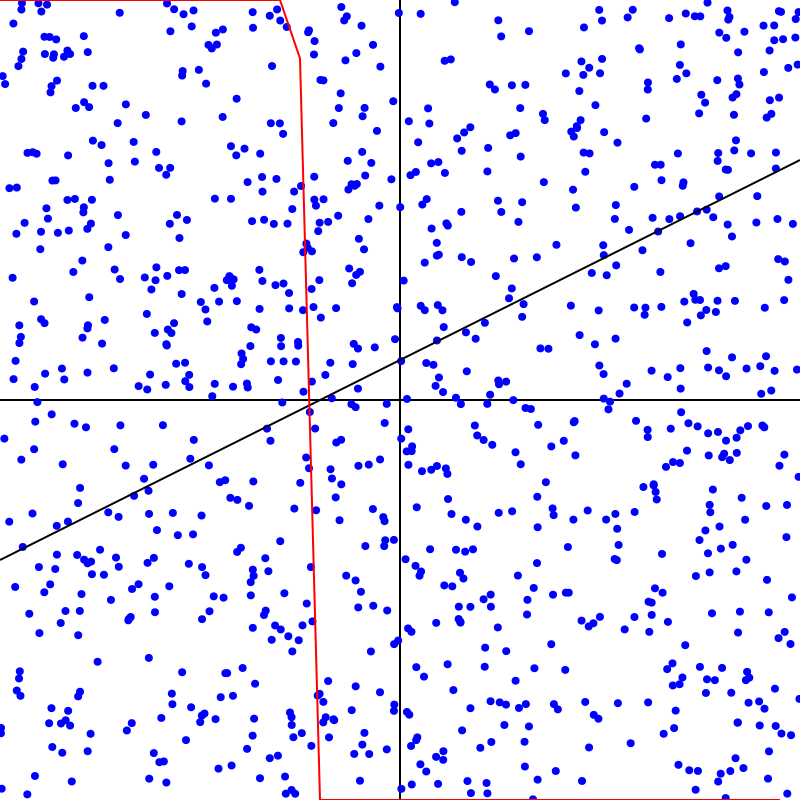
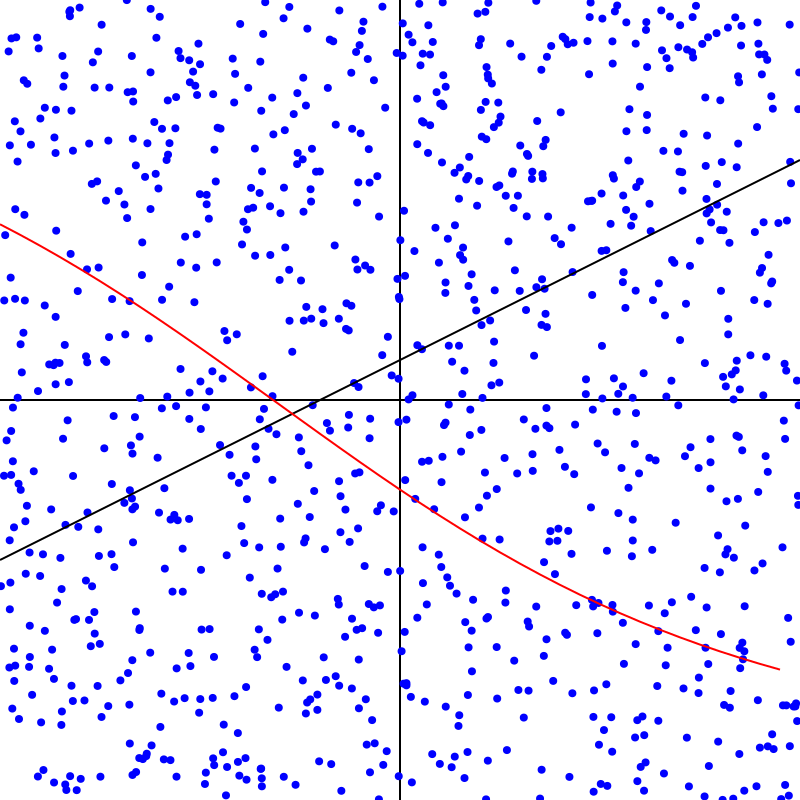
added relu, tanh, regularization

diff --git a/mlp.c b/mlp.c
@@ -3,6 +3,7 @@
 #include <math.h>
 #include <time.h>
 #include <cairo.h>
+#include <string.h>
 
 #define INPUT_NEURONS 2
 #define HIDDEN_NEURONS 4
@@ -10,11 +11,16 @@
 #define LEARNING_RATE 0.1
 #define MAX_EPOCHS 10000
 #define EPSILON 1e-3
-#define NUM_SAMPLES 1000
+#define NUM_SAMPLES 10000
 #define TEST_SAMPLES 100
 #define PLOT_SIZE 20
 #define PLOT_WIDTH 800
 #define PLOT_HEIGHT 800
+
+#define SIGMOID 0
+#define RELU 1
+#define TANH 2
+#define L2_LAMBDA 0.01
 
 typedef struct {
     double **weights;
@@ -22,11 +28,13 @@ typedef struct {
     double *outputs;
     int inputs;
     int neurons;
+    int activation_function;
 } Layer;
 
 typedef struct {
     Layer *layers;
     int num_layers;
+    int use_regularization;
 } MLP;
 
 double random_weight() {
@@ -41,12 +49,30 @@ double sigmoid_derivative(double x) {
     return x * (1 - x);
 }
 
+double relu(double x) {
+    return x > 0 ? x : 0;
+}
+
+double relu_derivative(double x) {
+    return x > 0 ? 1 : 0;
+}
+
+double tanh_activation(double x) {
+    return tanh(x);
+}
+
+double tanh_derivative(double x) {
+    return 1 - x * x;
+}
+
+double (*activation_functions[])(double) = {sigmoid, relu, tanh_activation};
+double (*activation_derivatives[])(double) = {sigmoid_derivative, relu_derivative, tanh_derivative};
+
 double true_line(double x);
 double mlp_line(double x);
 void forward_propagation(MLP *mlp, double *input);
 
 MLP* g_mlp;
-
 
 double true_line(double x) {
     return 0.5 * x + 0.1;
@@ -59,10 +85,11 @@ double mlp_line(double x) {
     return (y - 0.5) * 2; // Scale the output to [-1, 1]
 }
 
-Layer create_layer(int inputs, int neurons) {
+Layer create_layer(int inputs, int neurons, int activation_function) {
     Layer layer;
     layer.inputs = inputs;
     layer.neurons = neurons;
+    layer.activation_function = activation_function;
     layer.weights = (double **)malloc(neurons * sizeof(double *));
     layer.biases = (double *)malloc(neurons * sizeof(double));
     layer.outputs = (double *)malloc(neurons * sizeof(double));
@@ -78,14 +105,15 @@ Layer create_layer(int inputs, int neurons) {
     return layer;
 }
 
-MLP create_mlp() {
+MLP create_mlp(int activation_function, int use_regularization) {
     MLP mlp;
     mlp.num_layers = 3;
     mlp.layers = (Layer *)malloc(mlp.num_layers * sizeof(Layer));
+    mlp.use_regularization = use_regularization;
 
-    mlp.layers[0] = create_layer(INPUT_NEURONS, HIDDEN_NEURONS);
-    mlp.layers[1] = create_layer(HIDDEN_NEURONS, HIDDEN_NEURONS);
-    mlp.layers[2] = create_layer(HIDDEN_NEURONS, OUTPUT_NEURONS);
+    mlp.layers[0] = create_layer(INPUT_NEURONS, HIDDEN_NEURONS, activation_function);
+    mlp.layers[1] = create_layer(HIDDEN_NEURONS, HIDDEN_NEURONS, activation_function);
+    mlp.layers[2] = create_layer(HIDDEN_NEURONS, OUTPUT_NEURONS, SIGMOID);  // Output layer always uses sigmoid
 
     return mlp;
 }
@@ -101,7 +129,7 @@ void forward_propagation(MLP *mlp, double *input) {
             for (int j = 0; j < prev_size; j++) {
                 sum += prev_outputs[j] * layer->weights[i][j];
             }
-            layer->outputs[i] = sigmoid(sum);
+            layer->outputs[i] = activation_functions[layer->activation_function](sum);
         }
     }
 }
@@ -114,7 +142,7 @@ void backward_propagation(MLP *mlp, double *input, double target) {
 
     Layer *output_layer = &mlp->layers[mlp->num_layers - 1];
     double output_error = target - output_layer->outputs[0];
-    deltas[mlp->num_layers - 1][0] = output_error * sigmoid_derivative(output_layer->outputs[0]);
+    deltas[mlp->num_layers - 1][0] = output_error * activation_derivatives[output_layer->activation_function](output_layer->outputs[0]);
 
     for (int l = mlp->num_layers - 2; l >= 0; l--) {
         Layer *layer = &mlp->layers[l];
@@ -125,7 +153,7 @@ void backward_propagation(MLP *mlp, double *input, double target) {
             for (int j = 0; j < next_layer->neurons; j++) {
                 error += next_layer->weights[j][i] * deltas[l + 1][j];
             }
-            deltas[l][i] = error * sigmoid_derivative(layer->outputs[i]);
+            deltas[l][i] = error * activation_derivatives[layer->activation_function](layer->outputs[i]);
         }
     }
 
@@ -136,7 +164,11 @@ void backward_propagation(MLP *mlp, double *input, double target) {
 
         for (int i = 0; i < layer->neurons; i++) {
             for (int j = 0; j < prev_size; j++) {
-                layer->weights[i][j] += LEARNING_RATE * deltas[l][i] * prev_outputs[j];
+                double weight_update = LEARNING_RATE * deltas[l][i] * prev_outputs[j];
+                if (mlp->use_regularization) {
+                    weight_update -= LEARNING_RATE * L2_LAMBDA * layer->weights[i][j];
+                }
+                layer->weights[i][j] += weight_update;
             }
             layer->biases[i] += LEARNING_RATE * deltas[l][i];
         }
@@ -180,43 +212,7 @@ int is_above_line(double x, double y) {
     return y > 0.5 * x + 0.1;
 }
 
-void init_plot(char plot[PLOT_SIZE][PLOT_SIZE]) {
-    for (int i = 0; i < PLOT_SIZE; i++) {
-        for (int j = 0; j < PLOT_SIZE; j++) {
-            plot[i][j] = ' ';
-        }
-    }
-}
-
-void add_point_to_plot(char plot[PLOT_SIZE][PLOT_SIZE], double x, double y, char symbol) {
-    int plot_x = (int)((x + 1) / 2 * (PLOT_SIZE - 1));
-    int plot_y = (int)((1 - (y + 1) / 2) * (PLOT_SIZE - 1));
-    if (plot_x >= 0 && plot_x < PLOT_SIZE && plot_y >= 0 && plot_y < PLOT_SIZE) {
-        plot[plot_y][plot_x] = symbol;
-    }
-}
-
-void add_line_to_plot(char plot[PLOT_SIZE][PLOT_SIZE], double (*line_func)(double)) {
-    for (int x = 0; x < PLOT_SIZE; x++) {
-        double plot_x = (double)x / (PLOT_SIZE - 1) * 2 - 1;
-        double plot_y = line_func(plot_x);
-        int plot_y_int = (int)((1 - (plot_y + 1) / 2) * (PLOT_SIZE - 1));
-        if (plot_y_int >= 0 && plot_y_int < PLOT_SIZE) {
-            plot[plot_y_int][x] = '-';
-        }
-    }
-}
-
-void print_plot(char plot[PLOT_SIZE][PLOT_SIZE]) {
-    for (int i = 0; i < PLOT_SIZE; i++) {
-        for (int j = 0; j < PLOT_SIZE; j++) {
-            printf("%c", plot[j][i]);
-        }
-        printf("\n");
-    }
-}
-
-void create_plot(MLP *mlp, double inputs[][INPUT_NEURONS], double *targets, int num_samples) {
+void create_plot(MLP *mlp, double inputs[][INPUT_NEURONS], double *targets, int num_samples, const char *filename) {
     g_mlp = mlp;
 
     cairo_surface_t *surface = cairo_image_surface_create(CAIRO_FORMAT_ARGB32, PLOT_WIDTH, PLOT_HEIGHT);
@@ -236,7 +232,7 @@ void create_plot(MLP *mlp, double inputs[][INPUT_NEURONS], double *targets, int 
     cairo_line_to(cr, 0, 1);
     cairo_stroke(cr);
 
-    cairo_set_source_rgb(cr, 0, 0, 1);
+    cairo_set_source_rgba(cr, 0, 0, 1, 0.5);
     for (int i = 0; i < num_samples; i++) {
         cairo_arc(cr, inputs[i][0], inputs[i][1], 0.01, 0, 2 * M_PI);
         cairo_fill(cr);
@@ -254,16 +250,13 @@ void create_plot(MLP *mlp, double inputs[][INPUT_NEURONS], double *targets, int 
     }
     cairo_stroke(cr);
 
-    cairo_surface_write_to_png(surface, "mlp_plot.png");
+    cairo_surface_write_to_png(surface, filename);
     cairo_destroy(cr);
     cairo_surface_destroy(surface);
 }
 
 int main() {
     srand((unsigned int)time(NULL));
-
-    MLP mlp = create_mlp();
-    g_mlp = &mlp;
 
     double inputs[NUM_SAMPLES][INPUT_NEURONS];
     double targets[NUM_SAMPLES];
@@ -274,60 +267,64 @@ int main() {
         targets[i] = is_above_line(inputs[i][0], inputs[i][1]) ? 1.0 : 0.0;
     }
 
-    char plot[PLOT_SIZE][PLOT_SIZE];
+    const char* activation_names[] = {"Sigmoid", "ReLU", "Tanh"};
+    int activation_functions[] = {SIGMOID, RELU, TANH};
+    int num_activations = sizeof(activation_functions) / sizeof(activation_functions[0]);
 
-    printf("Plot before training:\n");
-    init_plot(plot);
-    add_line_to_plot(plot, true_line);
-    for (int i = 0; i < NUM_SAMPLES; i++) {
-        add_point_to_plot(plot, inputs[i][0], inputs[i][1], targets[i] > 0.5 ? '+' : '.');
-    }
-    print_plot(plot);
+    for (int use_regularization = 0; use_regularization <= 1; use_regularization++) {
+        printf("\n%s Regularization:\n", use_regularization ? "With" : "Without");
 
-    printf("\nTraining MLP for line classification...\n");
+        for (int a = 0; a < num_activations; a++) {
+            MLP mlp = create_mlp(activation_functions[a], use_regularization);
+            g_mlp = &mlp;
 
-    for (int epoch = 0; epoch < MAX_EPOCHS; epoch++) {
-        double error = train(&mlp, inputs, targets, NUM_SAMPLES);
-        if (epoch % 1000 == 0) {
-            printf("Epoch %d: Error = %f\n", epoch, error);
+            printf("\nTraining MLP with %s activation...\n", activation_names[a]);
+
+            clock_t start_time = clock();
+            double total_training_time = 0.0;
+
+            for (int epoch = 0; epoch < MAX_EPOCHS; epoch++) {
+                clock_t epoch_start = clock();
+                double error = train(&mlp, inputs, targets, NUM_SAMPLES);
+                clock_t epoch_end = clock();
+                double epoch_time = (double)(epoch_end - epoch_start) / CLOCKS_PER_SEC;
+                total_training_time += epoch_time;
+
+                if (epoch % 1000 == 0) {
+                    printf("Epoch %d: Error = %f, Time = %.4f seconds\n", epoch, error, epoch_time);
+                }
+                if (error < EPSILON) {
+                    printf("Converged at epoch %d\n", epoch);
+                    break;
+                }
+            }
+
+            clock_t end_time = clock();
+            double total_time = (double)(end_time - start_time) / CLOCKS_PER_SEC;
+
+            printf("\nTotal training time: %.4f seconds\n", total_training_time);
+            printf("Total execution time: %.4f seconds\n", total_time);
+
+            char filename[100];
+            snprintf(filename, sizeof(filename), "mlp_plot_%s_%s_regularization.png", 
+                     activation_names[a], use_regularization ? "with" : "without");
+            create_plot(&mlp, inputs, targets, NUM_SAMPLES, filename);
+
+            printf("\nTesting MLP with %s activation:\n", activation_names[a]);
+            int correct = 0;
+            for (int i = 0; i < TEST_SAMPLES; i++) {
+                double x, y;
+                generate_point(&x, &y);
+                double input[2] = {x, y};
+                forward_propagation(&mlp, input);
+                double output = mlp.layers[mlp.num_layers - 1].outputs[0];
+                int predicted = output > 0.5 ? 1 : 0;
+                int actual = is_above_line(x, y);
+                if (predicted == actual) correct++;
+            }
+            printf("Accuracy: %.2f%%\n", (double)correct / TEST_SAMPLES * 100);
+
+            free_mlp(&mlp);
         }
-        if (error < EPSILON) {
-            printf("Converged at epoch %d\n", epoch);
-            break;
-        }
     }
 
-    create_plot(&mlp, inputs, targets, NUM_SAMPLES);
-
-    printf("\nPlot after training:\n");
-    init_plot(plot);
-    add_line_to_plot(plot, true_line);
-    add_line_to_plot(plot, mlp_line);
-    for (int i = 0; i < TEST_SAMPLES; i++) {
-        double x, y;
-        generate_point(&x, &y);
-        double input[2] = {x, y};
-        forward_propagation(&mlp, input);
-        double output = mlp.layers[mlp.num_layers - 1].outputs[0];
-        add_point_to_plot(plot, x, y, output > 0.5 ? '+' : '.');
-    }
-    print_plot(plot);
-
-    printf("\nTesting MLP:\n");
-    int correct = 0;
-    for (int i = 0; i < TEST_SAMPLES; i++) {
-        double x, y;
-        generate_point(&x, &y);
-        double input[2] = {x, y};
-        forward_propagation(&mlp, input);
-        double output = mlp.layers[mlp.num_layers - 1].outputs[0];
-        int predicted = output > 0.5 ? 1 : 0;
-        int actual = is_above_line(x, y);
-        if (predicted == actual) correct++;
-        printf("Point (%.2f, %.2f): Predicted = %d, Actual = %d\n", x, y, predicted, actual);
-    }
-    printf("Accuracy: %.2f%%\n", (double)correct / TEST_SAMPLES * 100);
-
-    free_mlp(&mlp);
-    return 0;
-}
